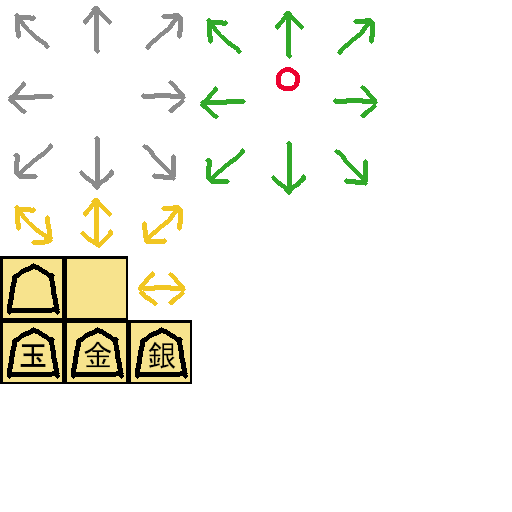
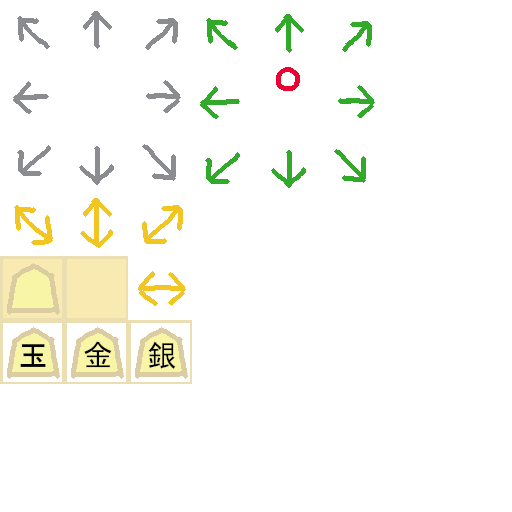
Browser

diff --git a/public/practice.html b/public/practice.html
@@ -202,17 +202,60 @@
     </style>
     <script>
         function on_load() {
+            // 盤面
             for (file = 9; 0 < file; file--) {
                 for (rank = 1; rank < 10; rank++) {
                     document.getElementById(`sq${file}${rank}`).setAttribute('src', 'img/map.png');
                     document.getElementById(`sq${file}${rank}`).setAttribute('class', 'sq');
                 }
             }
+            // ヨコ
+            for (file = 9; 1 < file; file--) {
+                for (rank = 1; rank < 10; rank++) {
+                    document.getElementById(`w${file}${rank}`).setAttribute('src', 'img/map.png');
+                    document.getElementById(`w${file}${rank}`).setAttribute('class', 's');
+                }
+            }
+            // タテ
+            for (file = 9; 0 < file; file--) {
+                for (rank = 2; rank < 10; rank++) {
+                    document.getElementById(`h${file}${rank}`).setAttribute('src', 'img/map.png');
+                    document.getElementById(`h${file}${rank}`).setAttribute('class', 's');
+                }
+            }
+            // ナナメ
+            for (file = 9; 1 < file; file--) {
+                for (rank = 2; rank < 10; rank++) {
+                    document.getElementById(`d${file}${rank}`).setAttribute('src', 'img/map.png');
+                    document.getElementById(`d${file}${rank}`).setAttribute('class', 's');
+                }
+            }
+            // ナカ
+            for (file = 9; 0 < file; file--) {
+                for (rank = 1; rank < 10; rank++) {
+                    document.getElementById(`c${file}${rank}`).setAttribute('src', 'img/map.png');
+                    document.getElementById(`c${file}${rank}`).setAttribute('class', 's');
+                }
+            }
 
             // 盤面
+            document.getElementById('sq96').setAttribute('class', 'pc_0');
+            document.getElementById('sq76').setAttribute('class', 'pc_0');
+            document.getElementById('sq66').setAttribute('class', 'pc_0');
+            document.getElementById('sq87').setAttribute('class', 'pc_0');
+            document.getElementById('sq77').setAttribute('class', 'pc_s');
+            document.getElementById('sq67').setAttribute('class', 'pc_0');
+            document.getElementById('sq57').setAttribute('class', 'pc_0');
             document.getElementById('sq88').setAttribute('class', 'pc_k');
             document.getElementById('sq78').setAttribute('class', 'pc_g');
-            document.getElementById('sq77').setAttribute('class', 'pc_s');
+            document.getElementById('sq99').setAttribute('class', 'pc_0');
+            document.getElementById('sq89').setAttribute('class', 'pc_0');
+            // ヨコ
+            document.getElementById('w88').setAttribute('class', 'k51');
+            // タテ
+            document.getElementById('h78').setAttribute('class', 'a73');
+            // ナカ
+            document.getElementById('c77').setAttribute('class', 'a1');
         }
     </script>
 </head>
@@ -299,6 +342,27 @@
                 id="d28"><br>
             <img id="d99"><img id="d89"><img id="d79"><img id="d69"><img id="d59"><img id="d49"><img id="d39"><img
                 id="d29"><br>
+        </div>
+        <!-- ナカ -->
+        <div style="position:absolute; top:0px; left:0px; width:576px; height:576px;">
+            <img id="c91"><img id="c81"><img id="c71"><img id="c61"><img id="c51"><img id="c41"><img id="c31"><img
+                id="c21"><img id="c11"><br>
+            <img id="c92"><img id="c82"><img id="c72"><img id="c62"><img id="c52"><img id="c42"><img id="c32"><img
+                id="c22"><img id="c12"><br>
+            <img id="c93"><img id="c83"><img id="c73"><img id="c63"><img id="c53"><img id="c43"><img id="c33"><img
+                id="c23"><img id="c13"><br>
+            <img id="c94"><img id="c84"><img id="c74"><img id="c64"><img id="c54"><img id="c44"><img id="c34"><img
+                id="c24"><img id="c14"><br>
+            <img id="c95"><img id="c85"><img id="c75"><img id="c65"><img id="c55"><img id="c45"><img id="c35"><img
+                id="c25"><img id="c15"><br>
+            <img id="c96"><img id="c86"><img id="c76"><img id="c66"><img id="c56"><img id="c46"><img id="c36"><img
+                id="c26"><img id="c16"><br>
+            <img id="c97"><img id="c87"><img id="c77"><img id="c67"><img id="c57"><img id="c47"><img id="c37"><img
+                id="c27"><img id="c17"><br>
+            <img id="c98"><img id="c88"><img id="c78"><img id="c68"><img id="c58"><img id="c48"><img id="c38"><img
+                id="c28"><img id="c18"><br>
+            <img id="c99"><img id="c89"><img id="c79"><img id="c69"><img id="c59"><img id="c49"><img id="c39"><img
+                id="c29"><img id="c19"><br>
         </div>
     </div>
 

diff --git a/tool/board.py b/tool/board.py
@@ -1,23 +1,29 @@
-# 盤
+# 盤(square)
 for rank in range(1, 10):
     for file in reversed(range(1, 10)):
         print(f"""<img id="sq{file}{rank}">""", end="")
     print(f"""<br>""")
 
-# ヨコ
+# ヨコ(width)
 for rank in range(1, 10):
     for file in reversed(range(2, 10)):
         print(f"""<img id="w{file}{rank}">""", end="")
     print(f"""<br>""")
 
-# タテ
+# タテ(height)
 for rank in range(2, 10):
     for file in reversed(range(1, 10)):
         print(f"""<img id="h{file}{rank}">""", end="")
     print(f"""<br>""")
 
-# ナナメ
+# ナナメ(diagonal)
 for rank in range(2, 10):
     for file in reversed(range(2, 10)):
         print(f"""<img id="d{file}{rank}">""", end="")
+    print(f"""<br>""")
+
+# ナカ(center)
+for rank in range(1, 10):
+    for file in reversed(range(1, 10)):
+        print(f"""<img id="c{file}{rank}">""", end="")
     print(f"""<br>""")
